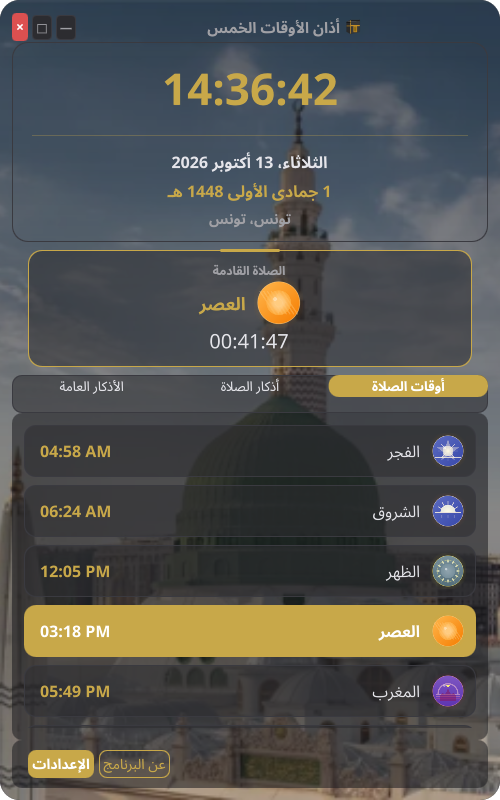
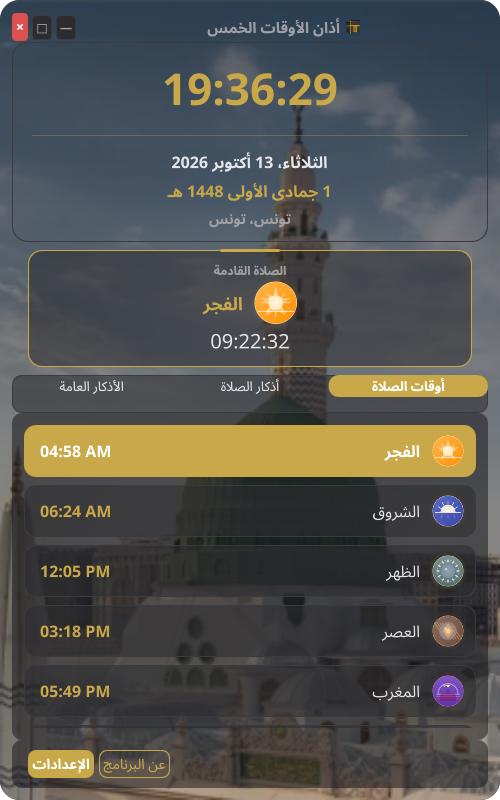
fix(ui): all prayer rows visible, persistent scrollbars, active-row tracking

diff --git a/qml/PrayerTimesTab.qml b/qml/PrayerTimesTab.qml
@@ -15,8 +15,16 @@ Rectangle {
     property var prayerModel: []
 
     function refresh() {
-        prayerModel = prayerEngine ? prayerEngine.getPrayerTimes() : []
+        var list = prayerEngine ? prayerEngine.getPrayerTimes() : []
+        prayerModel = list
         listView.model = prayerModel
+        // Keep the highlighted (next) prayer visible even in short windows.
+        for (var i = 0; i < list.length; i++) {
+            if (list[i].isNext) {
+                listView.positionViewAtIndex(i, ListView.Contain)
+                break
+            }
+        }
     }
 
     Component.onCompleted: refresh()
@@ -30,16 +38,19 @@ Rectangle {
         id: listView
         anchors.fill: parent
         anchors.margins: 12
-        spacing: 8
+        spacing: 6
         clip: true
         cacheBuffer: 30
-        ScrollIndicator.vertical: ScrollIndicator { }
+        ScrollBar.vertical: ScrollBar {
+            policy: ScrollBar.AlwaysOn
+            width: 8
+        }
 
         delegate: Rectangle {
             required property var modelData
 
             width: listView.width - listView.leftMargin - listView.rightMargin
-            height: 52
+            height: 50
             radius: 12
             color: modelData && modelData.isNext ? theme.accentColor : Qt.rgba(theme.cardColor.r, theme.cardColor.g, theme.cardColor.b, 0.55)
             border.color: modelData && modelData.isNext ? "transparent" : theme.borderColor

diff --git a/qml/main.qml b/qml/main.qml
@@ -13,7 +13,7 @@ ApplicationWindow {
     maximumWidth: 1590
     maximumHeight: 1080
     width: 500
-    height: 800
+    height: 840
 
     title: tr("أذان الأوقات الخمس")
     flags: Qt.FramelessWindowHint | Qt.Window
@@ -250,7 +250,7 @@ ApplicationWindow {
             Rectangle {
                 id: headerBg
                 Layout.fillWidth: true
-                Layout.preferredHeight: 200
+                Layout.preferredHeight: 180
                 radius: rLrg
                 border.color: theme.borderColor
                 border.width: 1

diff --git a/qml/AthkarTab.qml b/qml/AthkarTab.qml
@@ -89,6 +89,10 @@ Rectangle {
                 cellWidth: Math.floor(width / 3)
                 cellHeight: 118
                 model: categories
+                ScrollBar.vertical: ScrollBar {
+                    policy: ScrollBar.AlwaysOn
+                    width: 8
+                }
 
                 delegate: Rectangle {
                     required property var modelData
